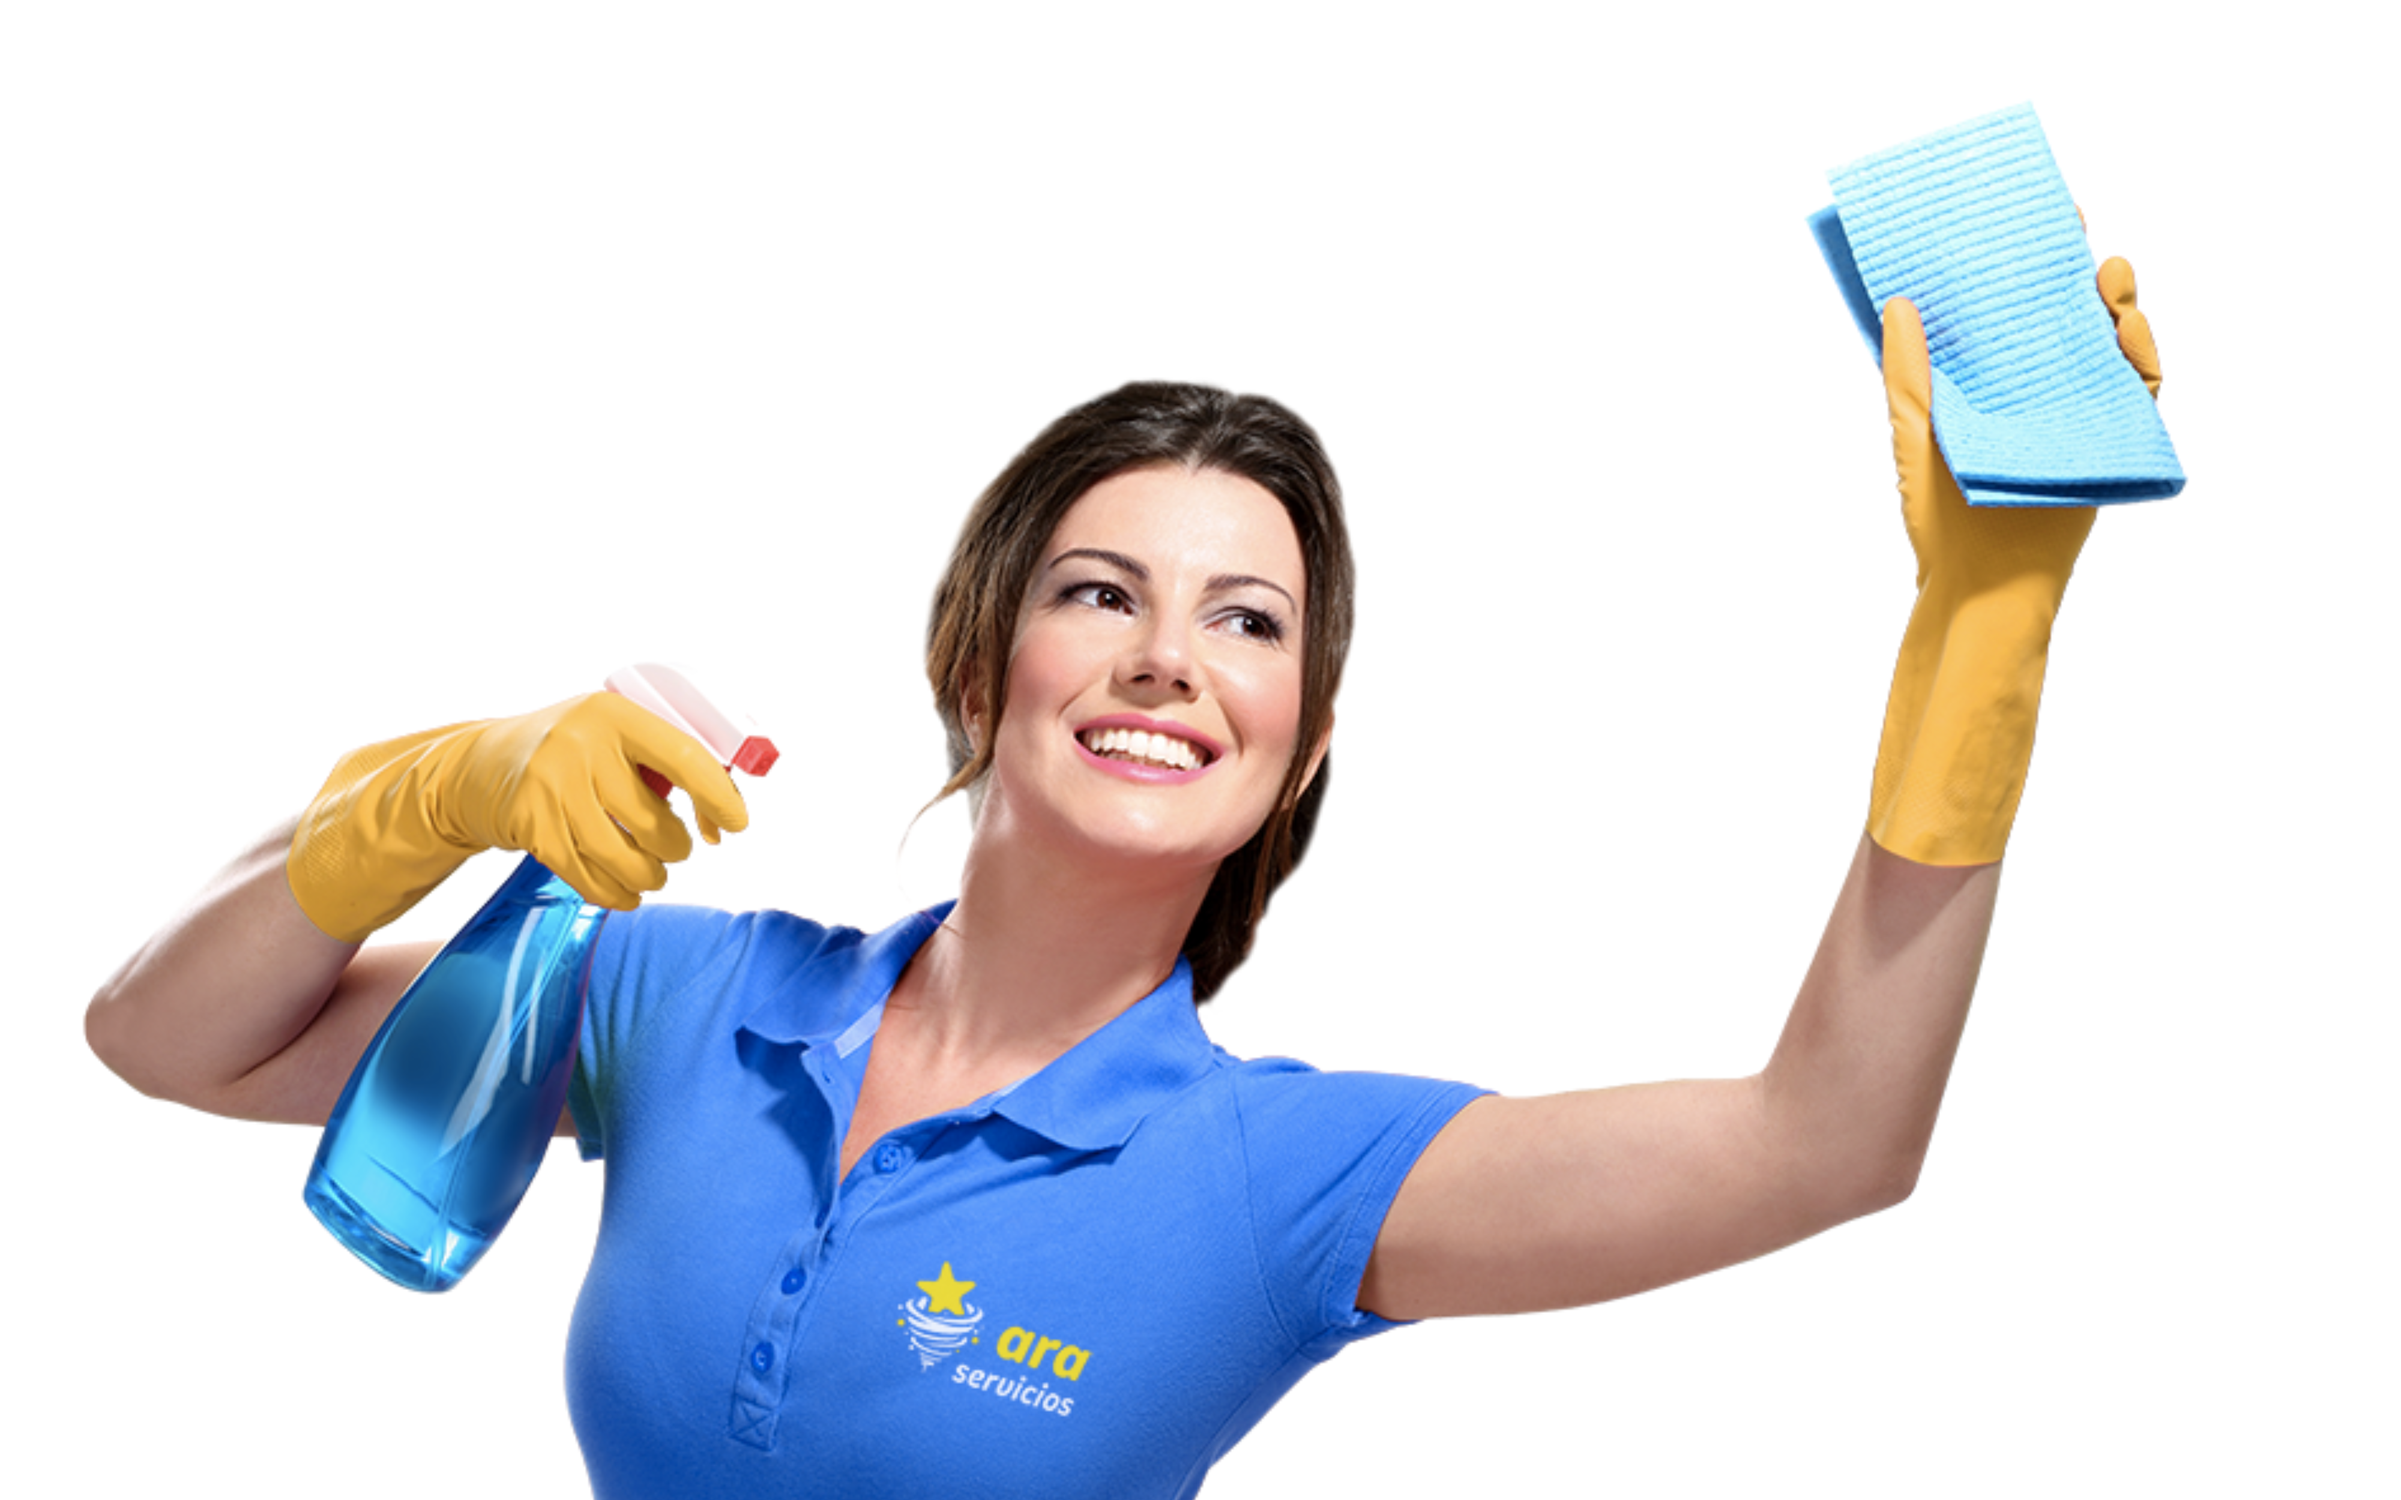
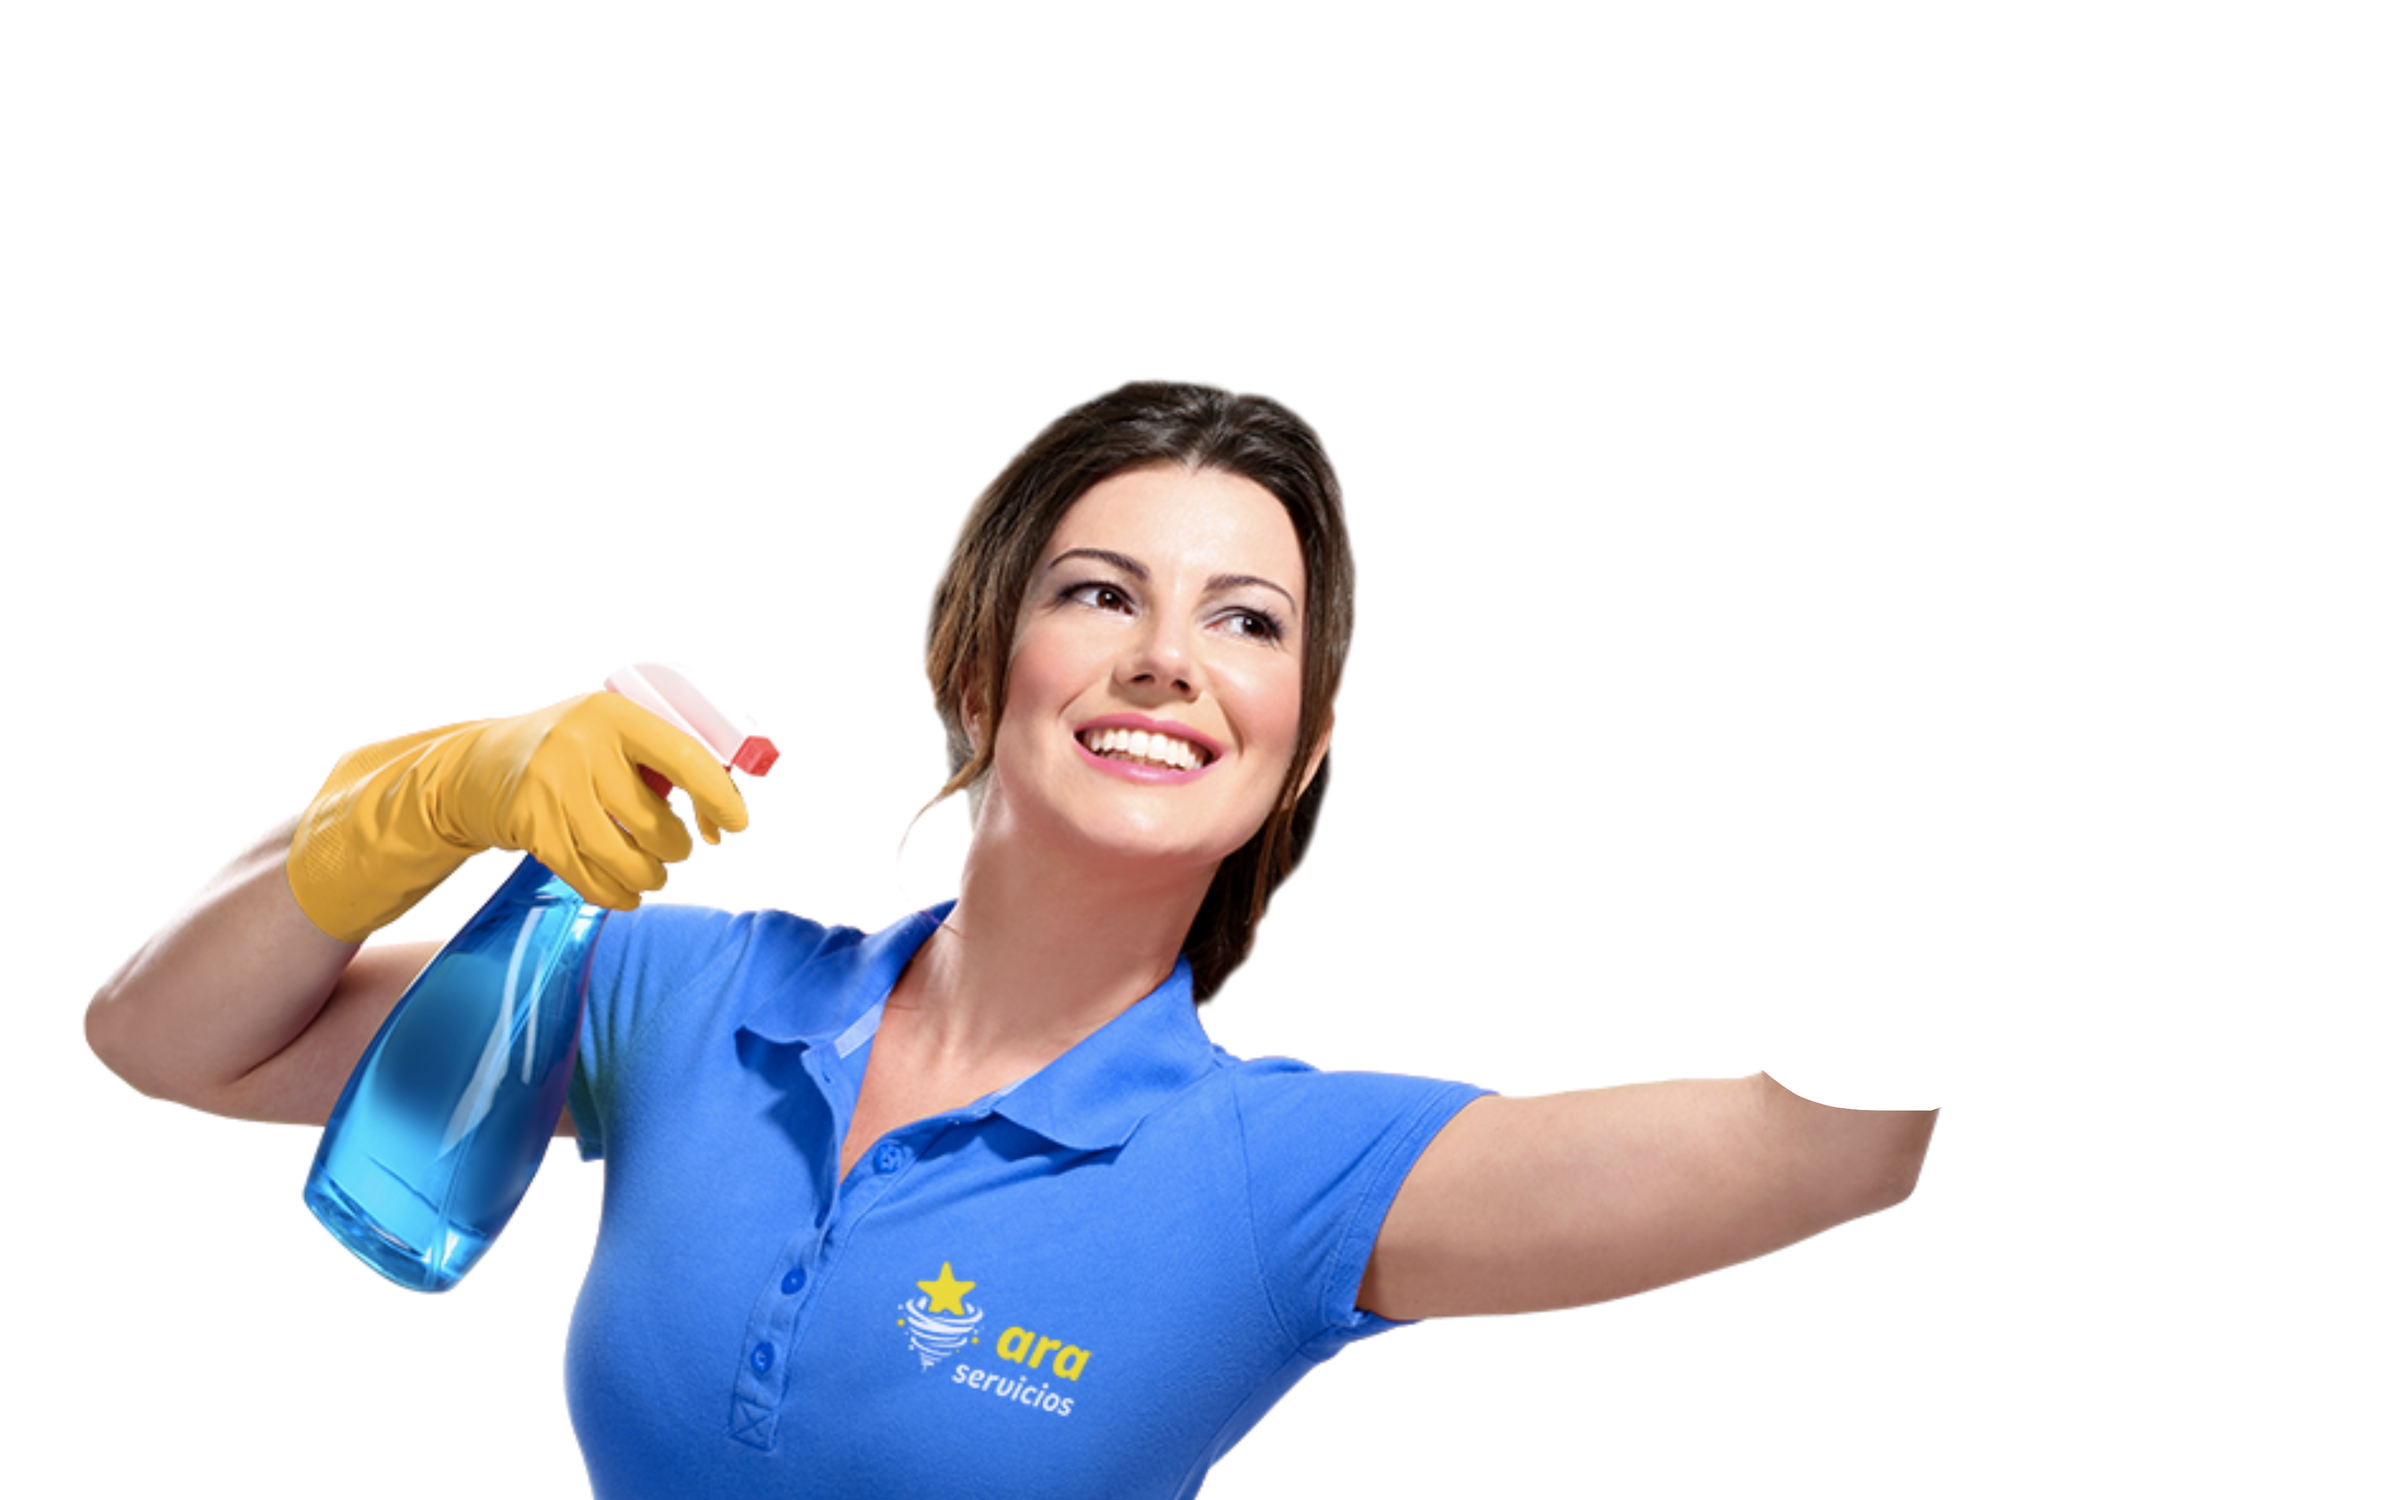
adding maps email and animation

Changed region(s): [[0.7188, 0.0624, 0.9062, 0.7488]]

diff --git a/solo-project-servi-home/src/pages/api/updateBookingStatus.ts b/solo-project-servi-home/src/pages/api/updateBookingStatus.ts
@@ -27,22 +27,39 @@ export default async (req: NextApiRequest, res: NextApiResponse) => {
       },
     });
 
-    const mailOptions: MailOptions = {
-      from: `Servi Home <${email}>`,
-      to: 'servi-home-notification@gmail.com',
-      subject: 'Confirmation: Your Order Has Been Accepted',
-      text: "Dear valued customer,\n\nWe're pleased to inform you that your order has been accepted. Our cleaner will be in touch with you shortly to finalize details and ensure a smooth service experience. Thank you for choosing Your Company Name.\n\nWarm regards,\nThe Your Company Name Team",
-      html: `
-        <div style="font-family: Arial, sans-serif; padding: 20px; max-width: 600px; margin: 0 auto; border: 1px solid #e0e0e0; border-radius: 5px;">
-            <h2 style="color: #333;">Confirmation: Your Order Has Been Accepted</h2>
-            <p>Dear valued customer,</p>
-            <p>We're pleased to inform you that your order has been accepted. Our cleaner will be in touch with you shortly to finalize details and ensure a smooth service experience. Thank you for choosing <b>Servi Home</b>.</p>
-            <p>Warm regards,</p>
-            <p><b>The Servi Home Team</b></p>
-        </div>`,
-    };
+    const userIdFromBooking = await prisma.booking.findFirst({
+      where: { id: bookingId },
+      select: {
+        userId: true,
+      },
+    });
 
-    await sendEmailOrderAccepted(mailOptions);
+    if (userIdFromBooking) {
+      const userEmailFromBooking = await prisma.user.findFirst({
+        where: { id: userIdFromBooking.userId as string },
+        select: {
+          email: true,
+        },
+      });
+      if (userEmailFromBooking) {
+        const mailOptions: MailOptions = {
+          from: `Servi Home <${email}>`,
+          to: userEmailFromBooking.email,
+          subject: 'Confirmation: Your Order Has Been Accepted',
+          text: "Dear valued customer,\n\nWe're pleased to inform you that your order has been accepted. Our cleaner will be in touch with you shortly to finalize details and ensure a smooth service experience. Thank you for choosing Your Company Name.\n\nWarm regards,\nThe Your Company Name Team",
+          html: `
+          <div style="font-family: Arial, sans-serif; padding: 20px; max-width: 600px; margin: 0 auto; border: 1px solid #e0e0e0; border-radius: 5px;">
+              <h2 style="color: #333;">Confirmation: Your Order Has Been Accepted</h2>
+              <p>Dear valued customer,</p>
+              <p>We're pleased to inform you that your order has been accepted. Our cleaner will be in touch with you shortly to finalize details and ensure a smooth service experience. Thank you for choosing <b>Servi Home</b>.</p>
+              <p>Warm regards,</p>
+              <p><b>The Servi Home Team</b></p>
+          </div>`,
+        };
+
+        await sendEmailOrderAccepted(mailOptions);
+      }
+    }
 
     return res.status(200).json(updatedBooking);
   } catch (error: any) {

diff --git a/solo-project-servi-home/src/components/Principal.tsx b/solo-project-servi-home/src/components/Principal.tsx
@@ -1,4 +1,5 @@
 import Link from 'next/link';
+import style from '../styles/Cleaner.module.css';
 
 export default function Principal(): JSX.Element {
   return (
@@ -11,19 +12,24 @@ export default function Principal(): JSX.Element {
             and freshness.
           </h1>
           <h2 className='text-4xl'>Your comfort, our priority.</h2>
-          <button className='bg-yellow-500 text-2xl flex items-center justify-center text-black px-8 py-3 rounded-full transform transition-transform duration-300 hover:scale-105 hover:shadow-xl'>
+          <button className='bg-yellow-500 text-2xl flex items-center justify-center text-black px-8 py-3 rounded-full transform transition-transform duration-300 hover:scale-105 hover:shadow-xl relative'>
             <Link className='hover:underline' href='/signup'>
               Schedule your cleaner
             </Link>
           </button>
         </div>
-        <img
-          src='/cleaning.png'
-          alt='Cleaning'
-          width={750}
-          height={750}
-          className='rounded-full shadow-2xl hover:scale-105 transform transition-transform duration-300 border-4 border-yellow-500 p-1'
-        />
+        <div className='rounded-full shadow-2xl hover:scale-105 transform transition-transform duration-300 border-4 border-yellow-500 p-1'>
+          <img
+            className={`${style.image} ${style.customcursor}`}
+            src='/cleaning.png'
+            alt='Cleaning'
+          />
+          <img
+            className={`${style.upperimage} h-full`}
+            src='/cleanerhand.png'
+            alt='Cleaninghand'
+          />
+        </div>
       </div>
 
       <div className='bg-zinc-400 p-12 flex justify-center text-white'>

diff --git a/solo-project-servi-home/src/pages/api/logedin.ts b/solo-project-servi-home/src/pages/api/logedin.ts
@@ -3,6 +3,7 @@ import { db } from '../../lib/db';
 import { NextApiRequest, NextApiResponse } from 'next';
 import { sendEmailConfirmation } from '../../lib/sendEmail';
 import { MailOptions } from '../../types';
+import generateServicesHTML from '../../lib/generateServicesHTML';
 
 const email: string | undefined = process.env.EMAIL;
 
@@ -15,46 +16,6 @@ export default async (req: NextApiRequest, res: NextApiResponse) => {
 
   const { services, address, userId, userEmail } = req.body;
 
-  function generateServicesHTML(services: any) {
-    return services
-      .map((service: any) => {
-        if (service.title === 'Revitalize Your Rugs') {
-          return `
-        <div>
-          <strong>${service.title}</strong>
-          <p>Rug Measure: ${service.rugmeasure}</p>
-          <p>Rug Condition: ${service.rugcondition}</p>
-          
-        </div>
-      `;
-        } else if (service.title === 'Renew Your Furniture') {
-          return `
-
-          <div>
-          <strong>${service.title}</strong>
-
-          <p>Measure: ${service.measure}</p>
-          <p>Condition: ${service.condition}</p>
-
-
-          
-          </div>
-          
-          `;
-        } else if (service.title === 'Elevate Your Tabletops') {
-          return `
-
-          <div>
-          <strong>${service.title}</strong>
-          <p>Measure: ${service.servicetable}</p>
-
-          </div>
-          
-          `;
-        }
-      })
-      .join('');
-  }
   const servicesHTML = generateServicesHTML(services);
 
   const mailOptions: MailOptions = {

diff --git a/solo-project-servi-home/src/lib/generateServicesHTML.ts b/solo-project-servi-home/src/lib/generateServicesHTML.ts
@@ -1,0 +1,40 @@
+export default function generateServicesHTML(services: any) {
+  return services
+    .map((service: any) => {
+      if (service.title === 'Revitalize Your Rugs') {
+        return `
+      <div>
+        <strong>${service.title}</strong>
+        <p>Rug Measure: ${service.rugmeasure}</p>
+        <p>Rug Condition: ${service.rugcondition}</p>
+        
+      </div>
+    `;
+      } else if (service.title === 'Renew Your Furniture') {
+        return `
+
+        <div>
+        <strong>${service.title}</strong>
+
+        <p>Measure: ${service.measure}</p>
+        <p>Condition: ${service.condition}</p>
+
+
+        
+        </div>
+        
+        `;
+      } else if (service.title === 'Elevate Your Tabletops') {
+        return `
+
+        <div>
+        <strong>${service.title}</strong>
+        <p>Measure: ${service.servicetable}</p>
+
+        </div>
+        
+        `;
+      }
+    })
+    .join('');
+}

diff --git a/solo-project-servi-home/src/pages/cleanerlogedin.tsx b/solo-project-servi-home/src/pages/cleanerlogedin.tsx
@@ -1,7 +1,7 @@
 import { useState, useEffect, Dispatch, SetStateAction } from 'react';
 import * as React from 'react';
 import { BookingData } from '../types';
-import Map from '../components/Map/index.js';
+import Map from '../components/Map/index';
 
 import { MapContainer, TileLayer, useMap, Marker, Popup } from 'react-leaflet';
 
@@ -61,7 +61,6 @@ function CleanerLogedin(): JSX.Element {
           return (
             <div className='flex flex-row bg-white m-4 shadow-lg border-t-4 border-blue-500 p-6 rounded-lg relative transform transition-transform duration-300 hover:scale-105  justify-between'>
               <div key={index} className=''>
-                ;
                 <h3 className='text-2xl font-semibold mb-4 tracking-normal'>
                   Booking #{index + 1}
                 </h3>

diff --git a/solo-project-servi-home/src/styles/Cleaner.module.css b/solo-project-servi-home/src/styles/Cleaner.module.css
@@ -1,0 +1,30 @@
+.upperimage {
+  position: absolute;
+  top: -26%;
+  left: 66.8%;
+  transform-origin: center bottom;
+  background-size: cover;
+  animation: wipe-animation 2s infinite alternate; /* Set animation duration and type */
+}
+.image {
+  position: relative;
+
+  width: 50vw;
+
+  /* width: 50vw; */
+  height: auto;
+  object-fit: cover;
+}
+
+.customcursor:hover {
+  cursor: url('/cleanerhand.png'), auto;
+}
+
+@keyframes wipe-animation {
+  0% {
+    transform: translateY(0) rotate(0deg) scale(0.8);
+  }
+  100% {
+    transform: translateY(0%) rotate(-21deg) scale(0.8); /* Adjust the rotation angle as needed */
+  }
+}

diff --git a/solo-project-servi-home/src/components/Map/Map.tsx b/solo-project-servi-home/src/components/Map/Map.tsx
@@ -1,10 +1,9 @@
 import 'leaflet/dist/leaflet.css';
 import { MapContainer, TileLayer, Marker } from 'react-leaflet';
 import { Icon } from 'leaflet';
-
 import style from '../../styles/Map.module.css';
 
-export default function Map({ X, Y }) {
+export default function Map({ X, Y }: { X: number; Y: number }): JSX.Element {
   const customIcon = new Icon({
     iconUrl: '/icons8-maps-48.png',
     iconSize: [20, 20],
@@ -15,7 +14,7 @@ export default function Map({ X, Y }) {
     <MapContainer
       className={style.map}
       center={[X, Y]}
-      zoom={12}
+      zoom={13}
       scrollWheelZoom={true}
     >
       <TileLayer

diff --git a/solo-project-servi-home/src/styles/Map.module.css b/solo-project-servi-home/src/styles/Map.module.css
@@ -1,5 +1,5 @@
 .map {
-  width: 500px;
-  height: 300px;
-  border: solid 1px black;
+  width: 700px;
+  height: 500px;
+  border-radius: 8px;
 }

diff --git a/solo-project-servi-home/tailwind.config.js b/solo-project-servi-home/tailwind.config.js
@@ -15,4 +15,4 @@ module.exports = {
     },
   },
   plugins: [],
-}
+};
